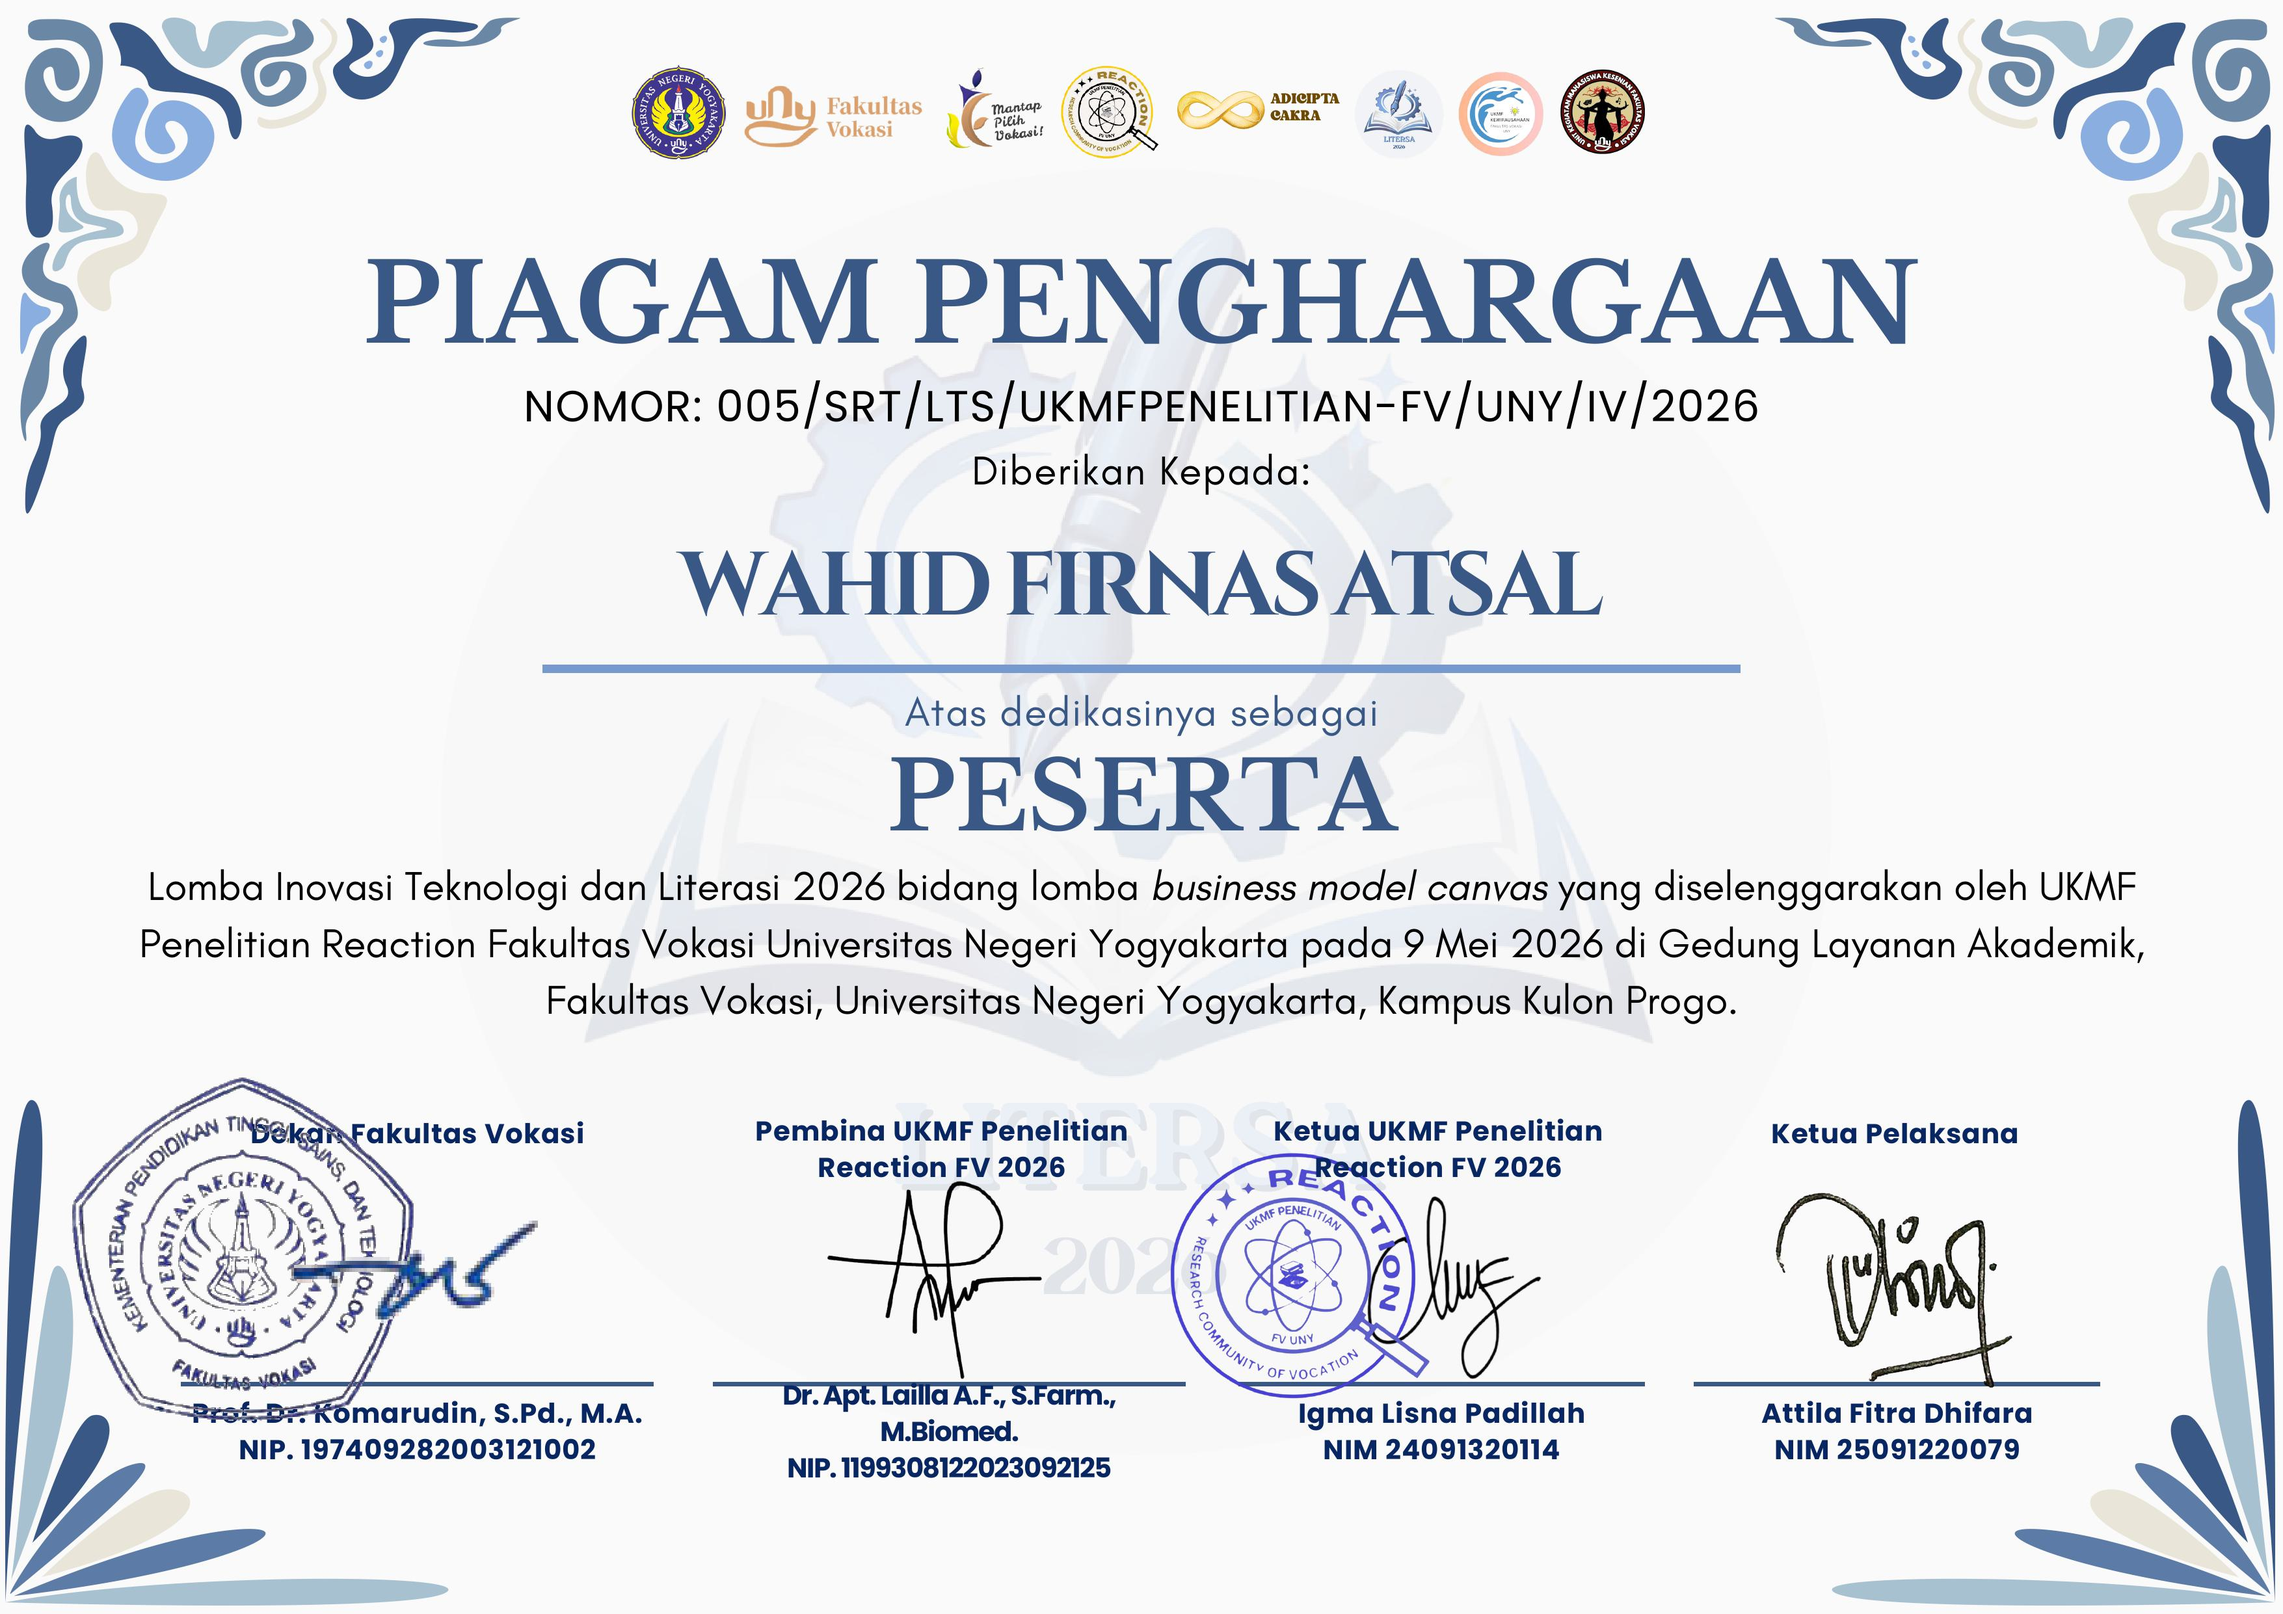
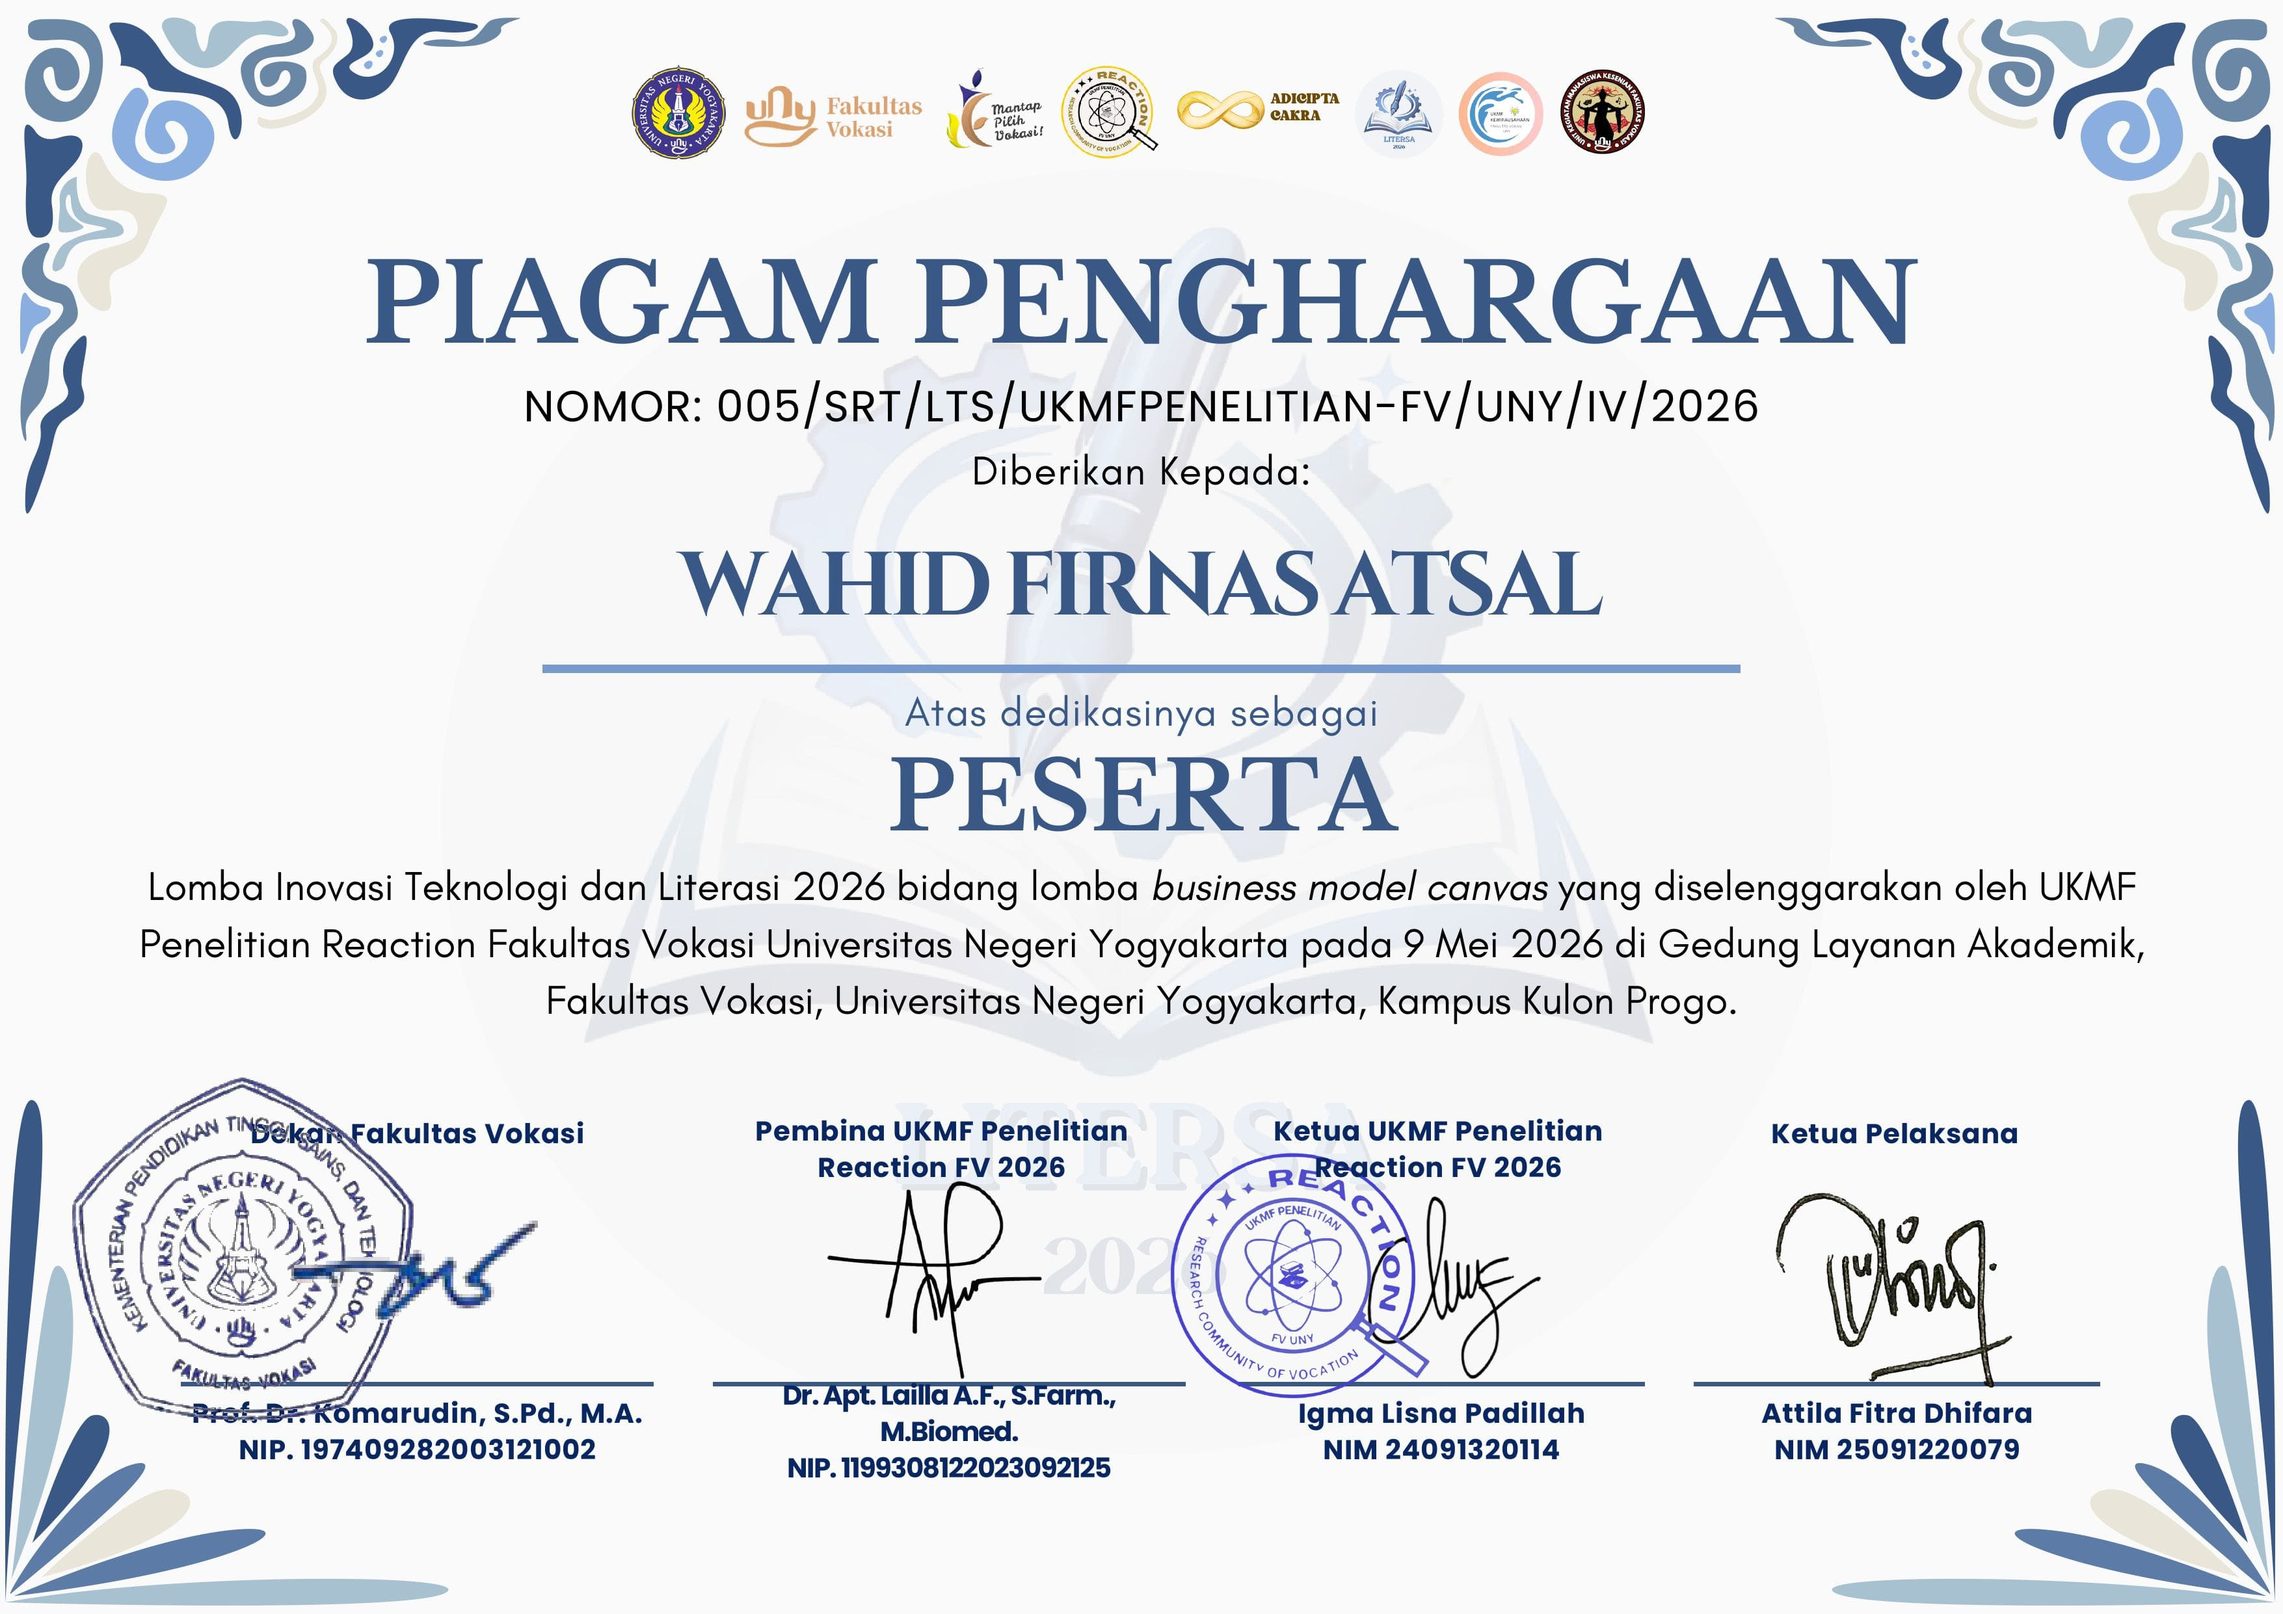
🖼 compress large images

Changed region(s): [[0.2795, 0.031, 0.3105, 0.0931], [0.6832, 0.062, 0.7142, 0.0931]]

diff --git a/scripts/optimize-images.js b/scripts/optimize-images.js
@@ -1,0 +1,35 @@
+const path = require('path');
+const fs = require('fs');
+
+const publicDir = path.resolve(__dirname, '..', 'public');
+
+(async () => {
+  try {
+    const imagemin = (await import('imagemin')).default;
+    const imageminMozjpeg = (await import('imagemin-mozjpeg')).default;
+    const imageminPngquant = (await import('imagemin-pngquant')).default;
+
+    // Use forward slashes for glob pattern, otherwise it fails on Windows
+    const globPattern = publicDir.replace(/\\/g, '/') + '/**/*.{jpg,jpeg,png}';
+
+    const files = await imagemin([globPattern], {
+      // Don't specify destination here, we'll write them back manually
+      plugins: [
+        imageminMozjpeg({ quality: 75 }),
+        imageminPngquant({ quality: [0.6, 0.8] })
+      ]
+    });
+
+    for (const file of files) {
+      // imagemin returns { data: Buffer, sourcePath: string, destinationPath: string }
+      if (file.sourcePath) {
+        fs.writeFileSync(file.sourcePath, file.data);
+        console.log(`Optimized: ${file.sourcePath}`);
+      }
+    }
+
+    console.log(`Successfully compressed ${files.length} images.`);
+  } catch (error) {
+    console.error("Compression failed:", error);
+  }
+})();
